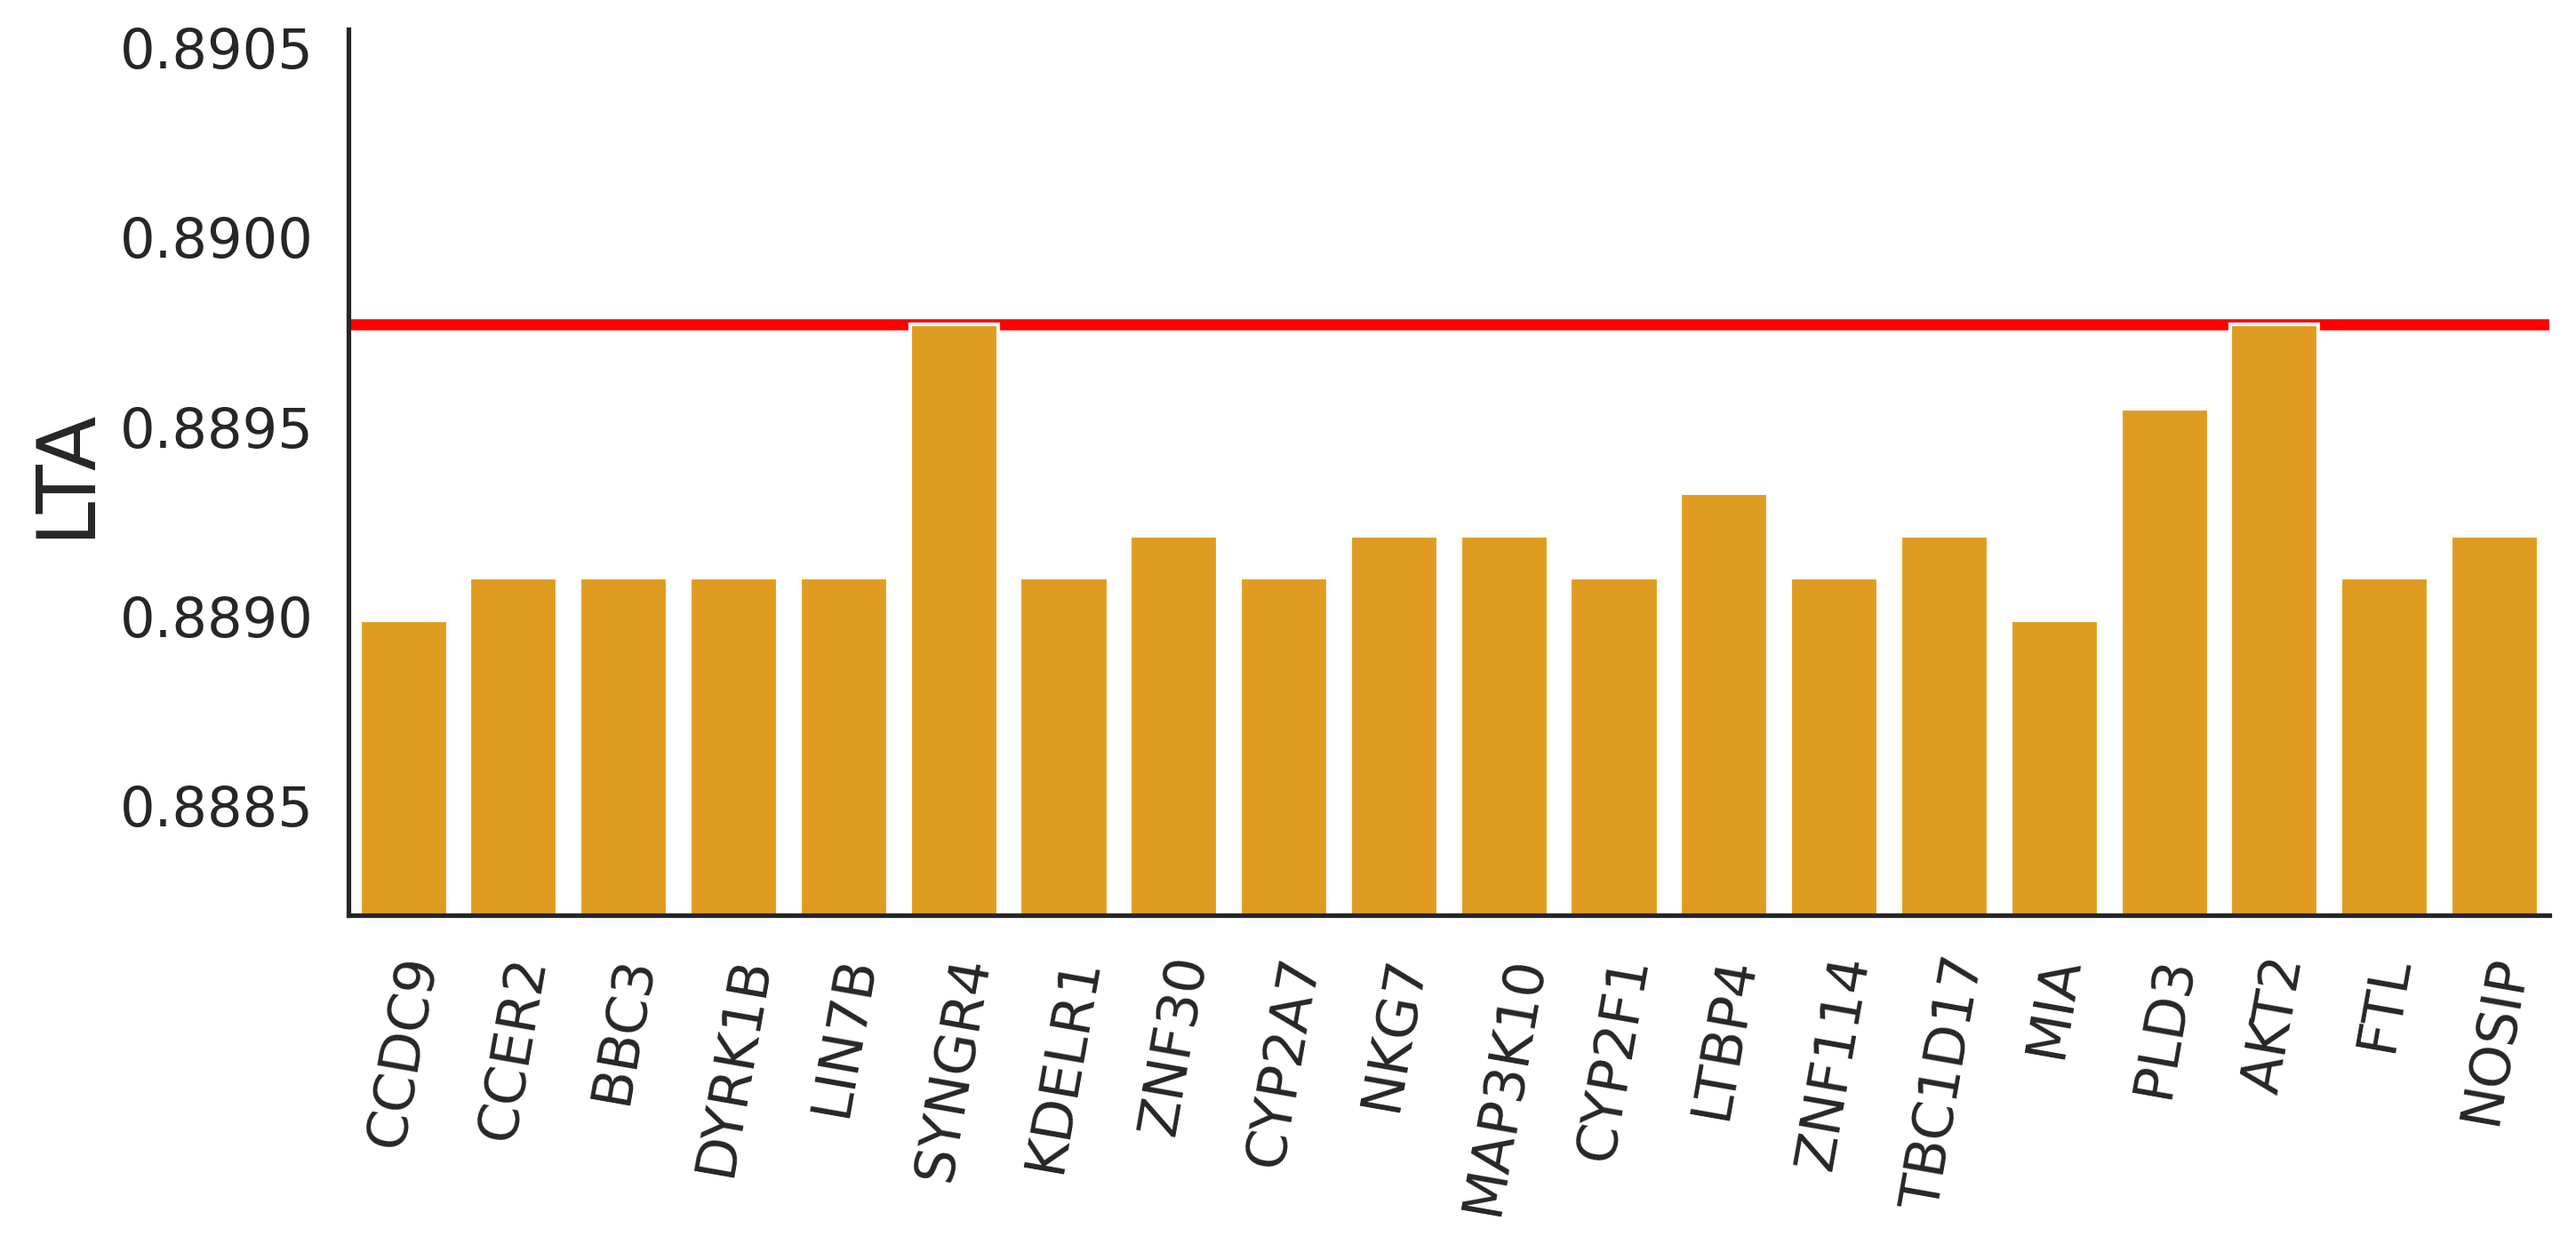
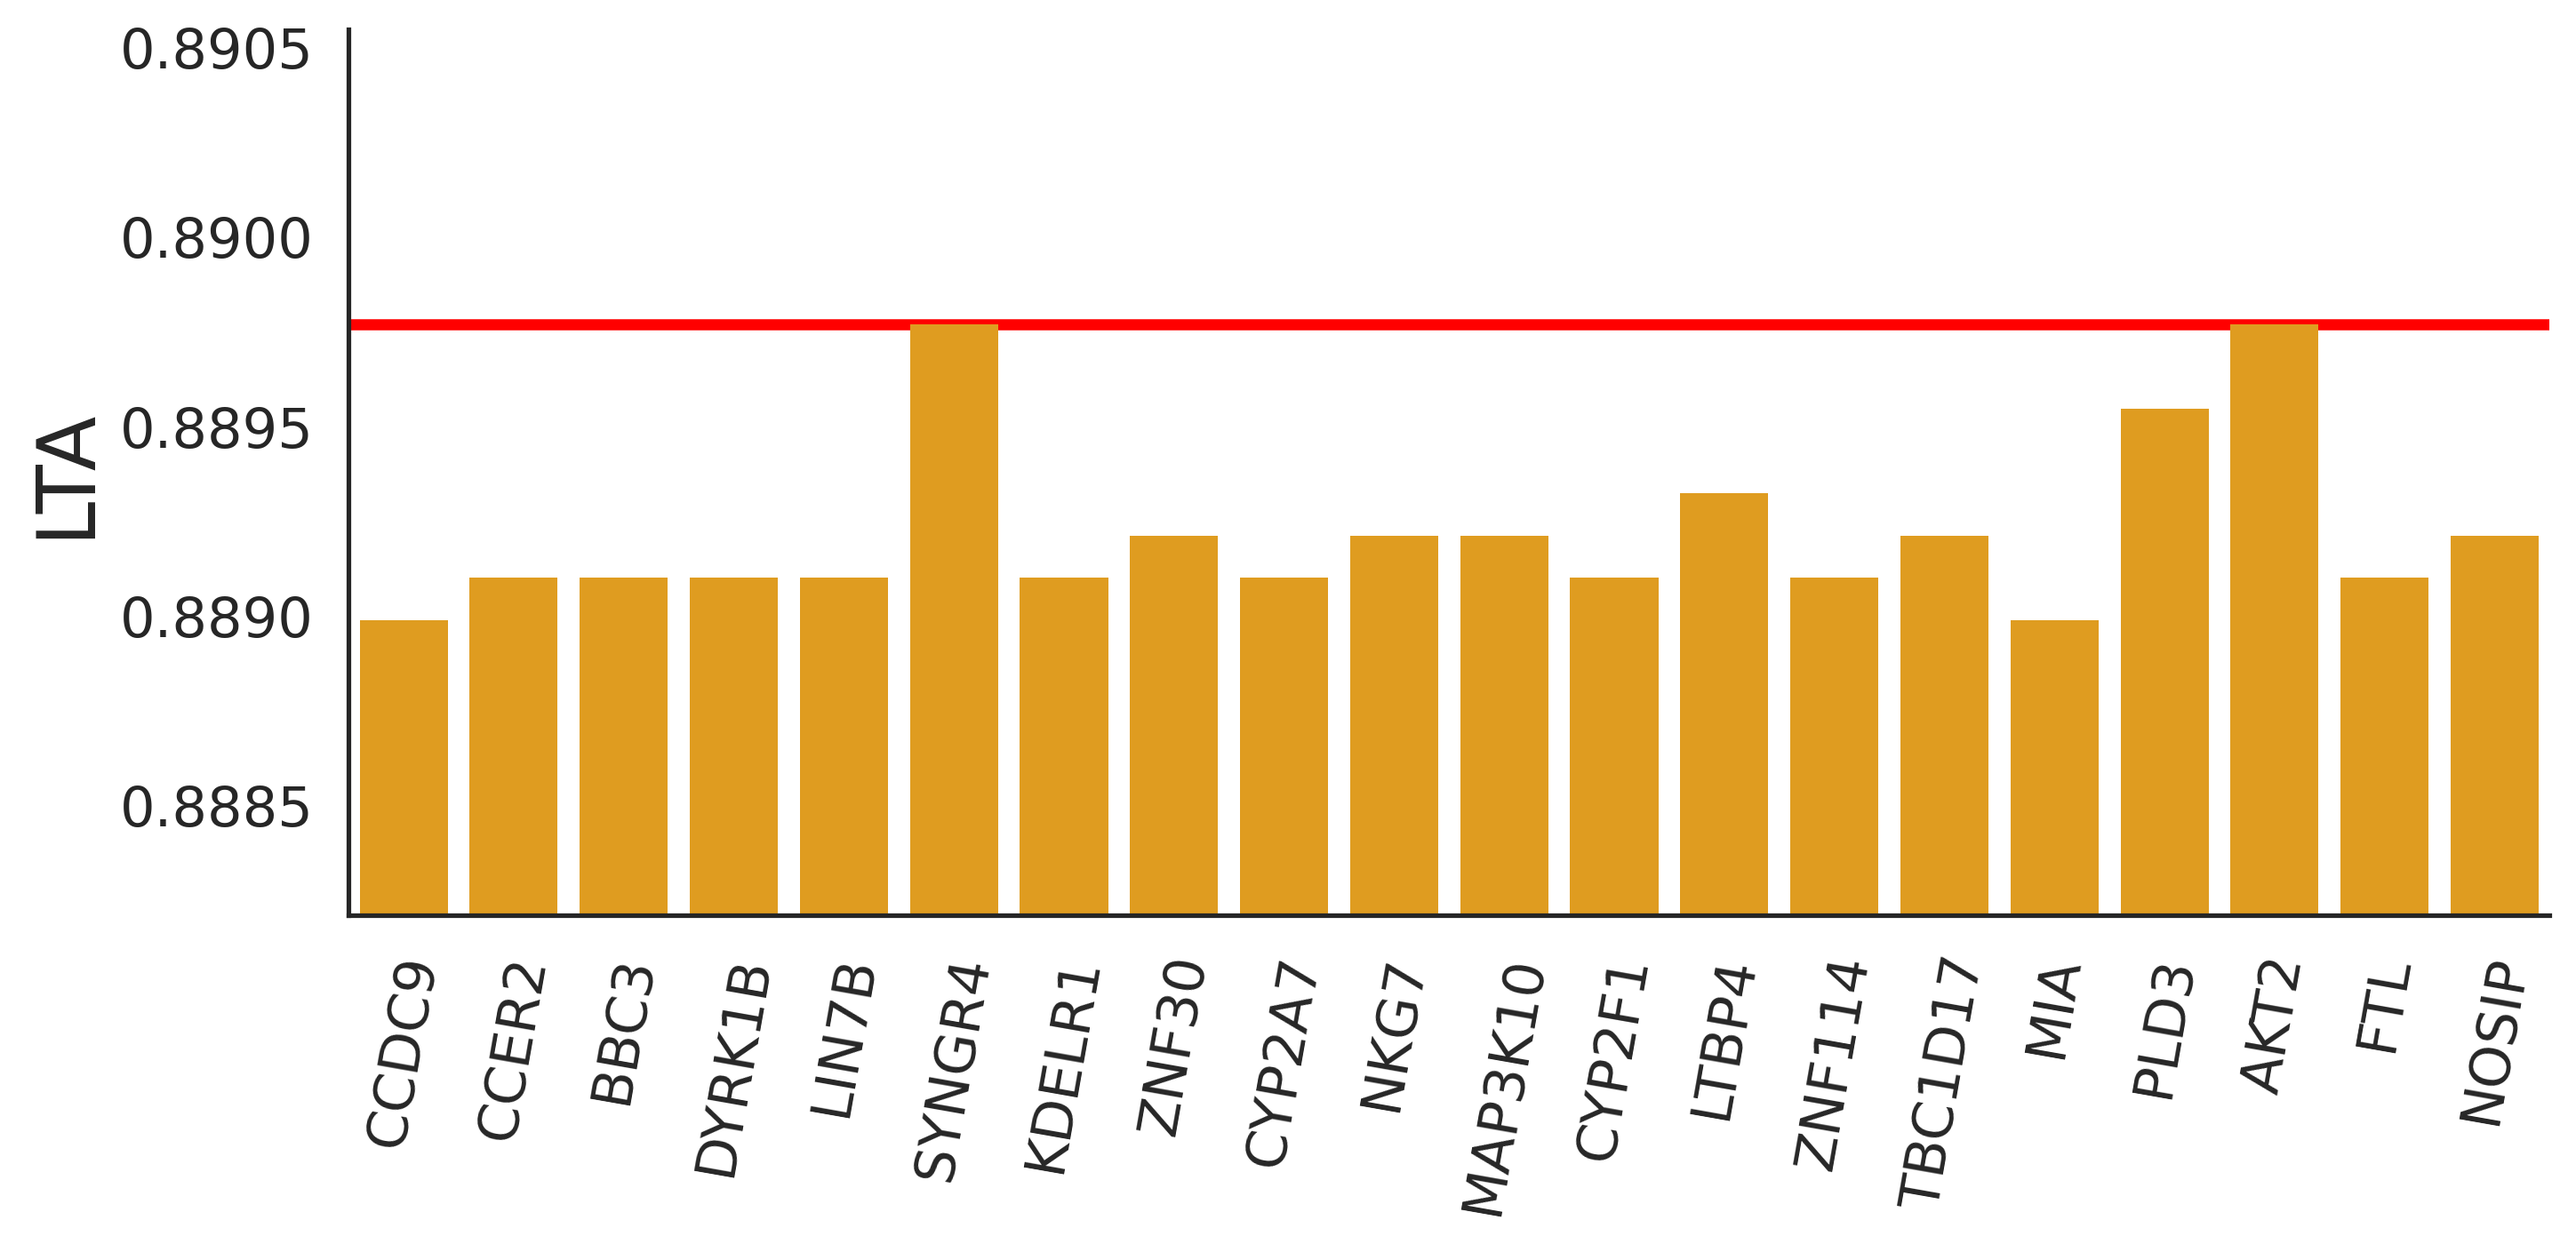
More scaling

Changed region(s): [[0.8696, 0.2457, 0.9006, 0.2764]]

diff --git a/jamie/evaluation.py b/jamie/evaluation.py
@@ -944,7 +944,7 @@ def plot_impact(
 
     ax = plt.gcf().add_subplot(1, 1, 1)
     sns.barplot(x=fnames, y=values, ax=ax, color=color)
-    # plt.setp(ax.patches, linewidth=0)
+    plt.setp(ax.patches, linewidth=0)
     ax.axhline(y=baseline, color='red', linewidth=3, zorder=-1)
     ax.set_ylabel(ylabel)
     yrange = max(values) - min(values)
